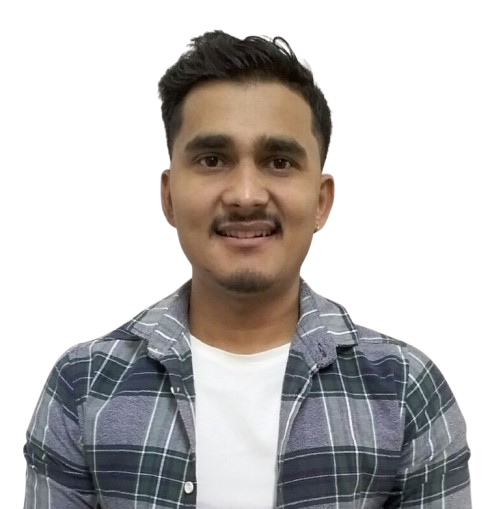
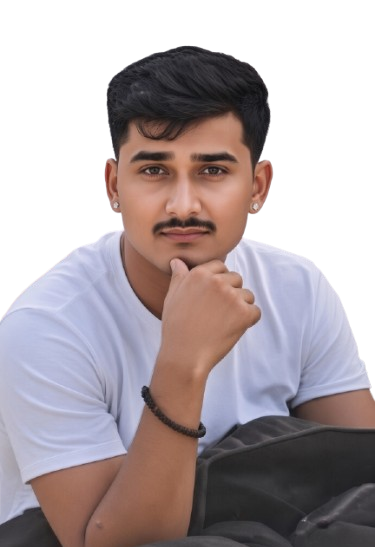
images changes

diff --git a/index.html b/index.html
@@ -184,11 +184,11 @@
             <p class="text-center muted-text mt-3 mb-4">My store in a nutshell ;)</p>
             <div class="row justify-content-center" data-aos="fade-down" data-aos-delay="200">
                 <div class="col-lg-5 about-portrait">
-                    <img src="assets/images/portrait-3.webp.jpg" class="img-fluid pic" alt="About Me Portrait">
+                    <img src="assets/images/rohit.png" class="img-fluid pic" alt="About Me Portrait">
                 </div>
                 <div class="col-lg-7">
                     <p class="bio" style="text-align: justify;">
-                        Hello! I’m Rohit Chapagain, a 24-year-old full-stack software engineer with 1.5 years of experience at SB Solution Nepal, where I build and maintain scalable, efficient applications. My expertise lies in AngularJS for front-end development and Java Spring Boot on the back end, a skill set that allows me to deliver robust and responsive systems. Completing my BSc (Hons) in Computing from The British College in Nepal was both challenging and rewarding, instilling in me a deep appreciation for persistence, dedication, and the power of focused effort.
+                        Hello! I’m Rohit Chapagain, a 22-year-old full-stack software engineer with 1.5 years of experience at SB Solution Nepal, where I build and maintain scalable, efficient applications. My expertise lies in AngularJS for front-end development and Java Spring Boot on the back end, a skill set that allows me to deliver robust and responsive systems. Completing my BSc (Hons) in Computing from The British College in Nepal was both challenging and rewarding, instilling in me a deep appreciation for persistence, dedication, and the power of focused effort.
 
                         Outside of my technical work, I am deeply spiritual and find grounding through my faith. I find fulfillment in exploring religious texts, particularly the Bhagavad Gita, which I read and listen to regularly, sometimes diving into its teachings through audiobooks. The wisdom within these verses offers me peace and a renewed perspective, reminding me of life’s purpose and the importance of humility, compassion, and focus. I also have a collection of books centered on Krishna, whose teachings I cherish and reflect upon often. Listening to motivational speeches further inspires me to stay dedicated to my goals, building resilience and a positive mindset as I navigate my career.
                         
